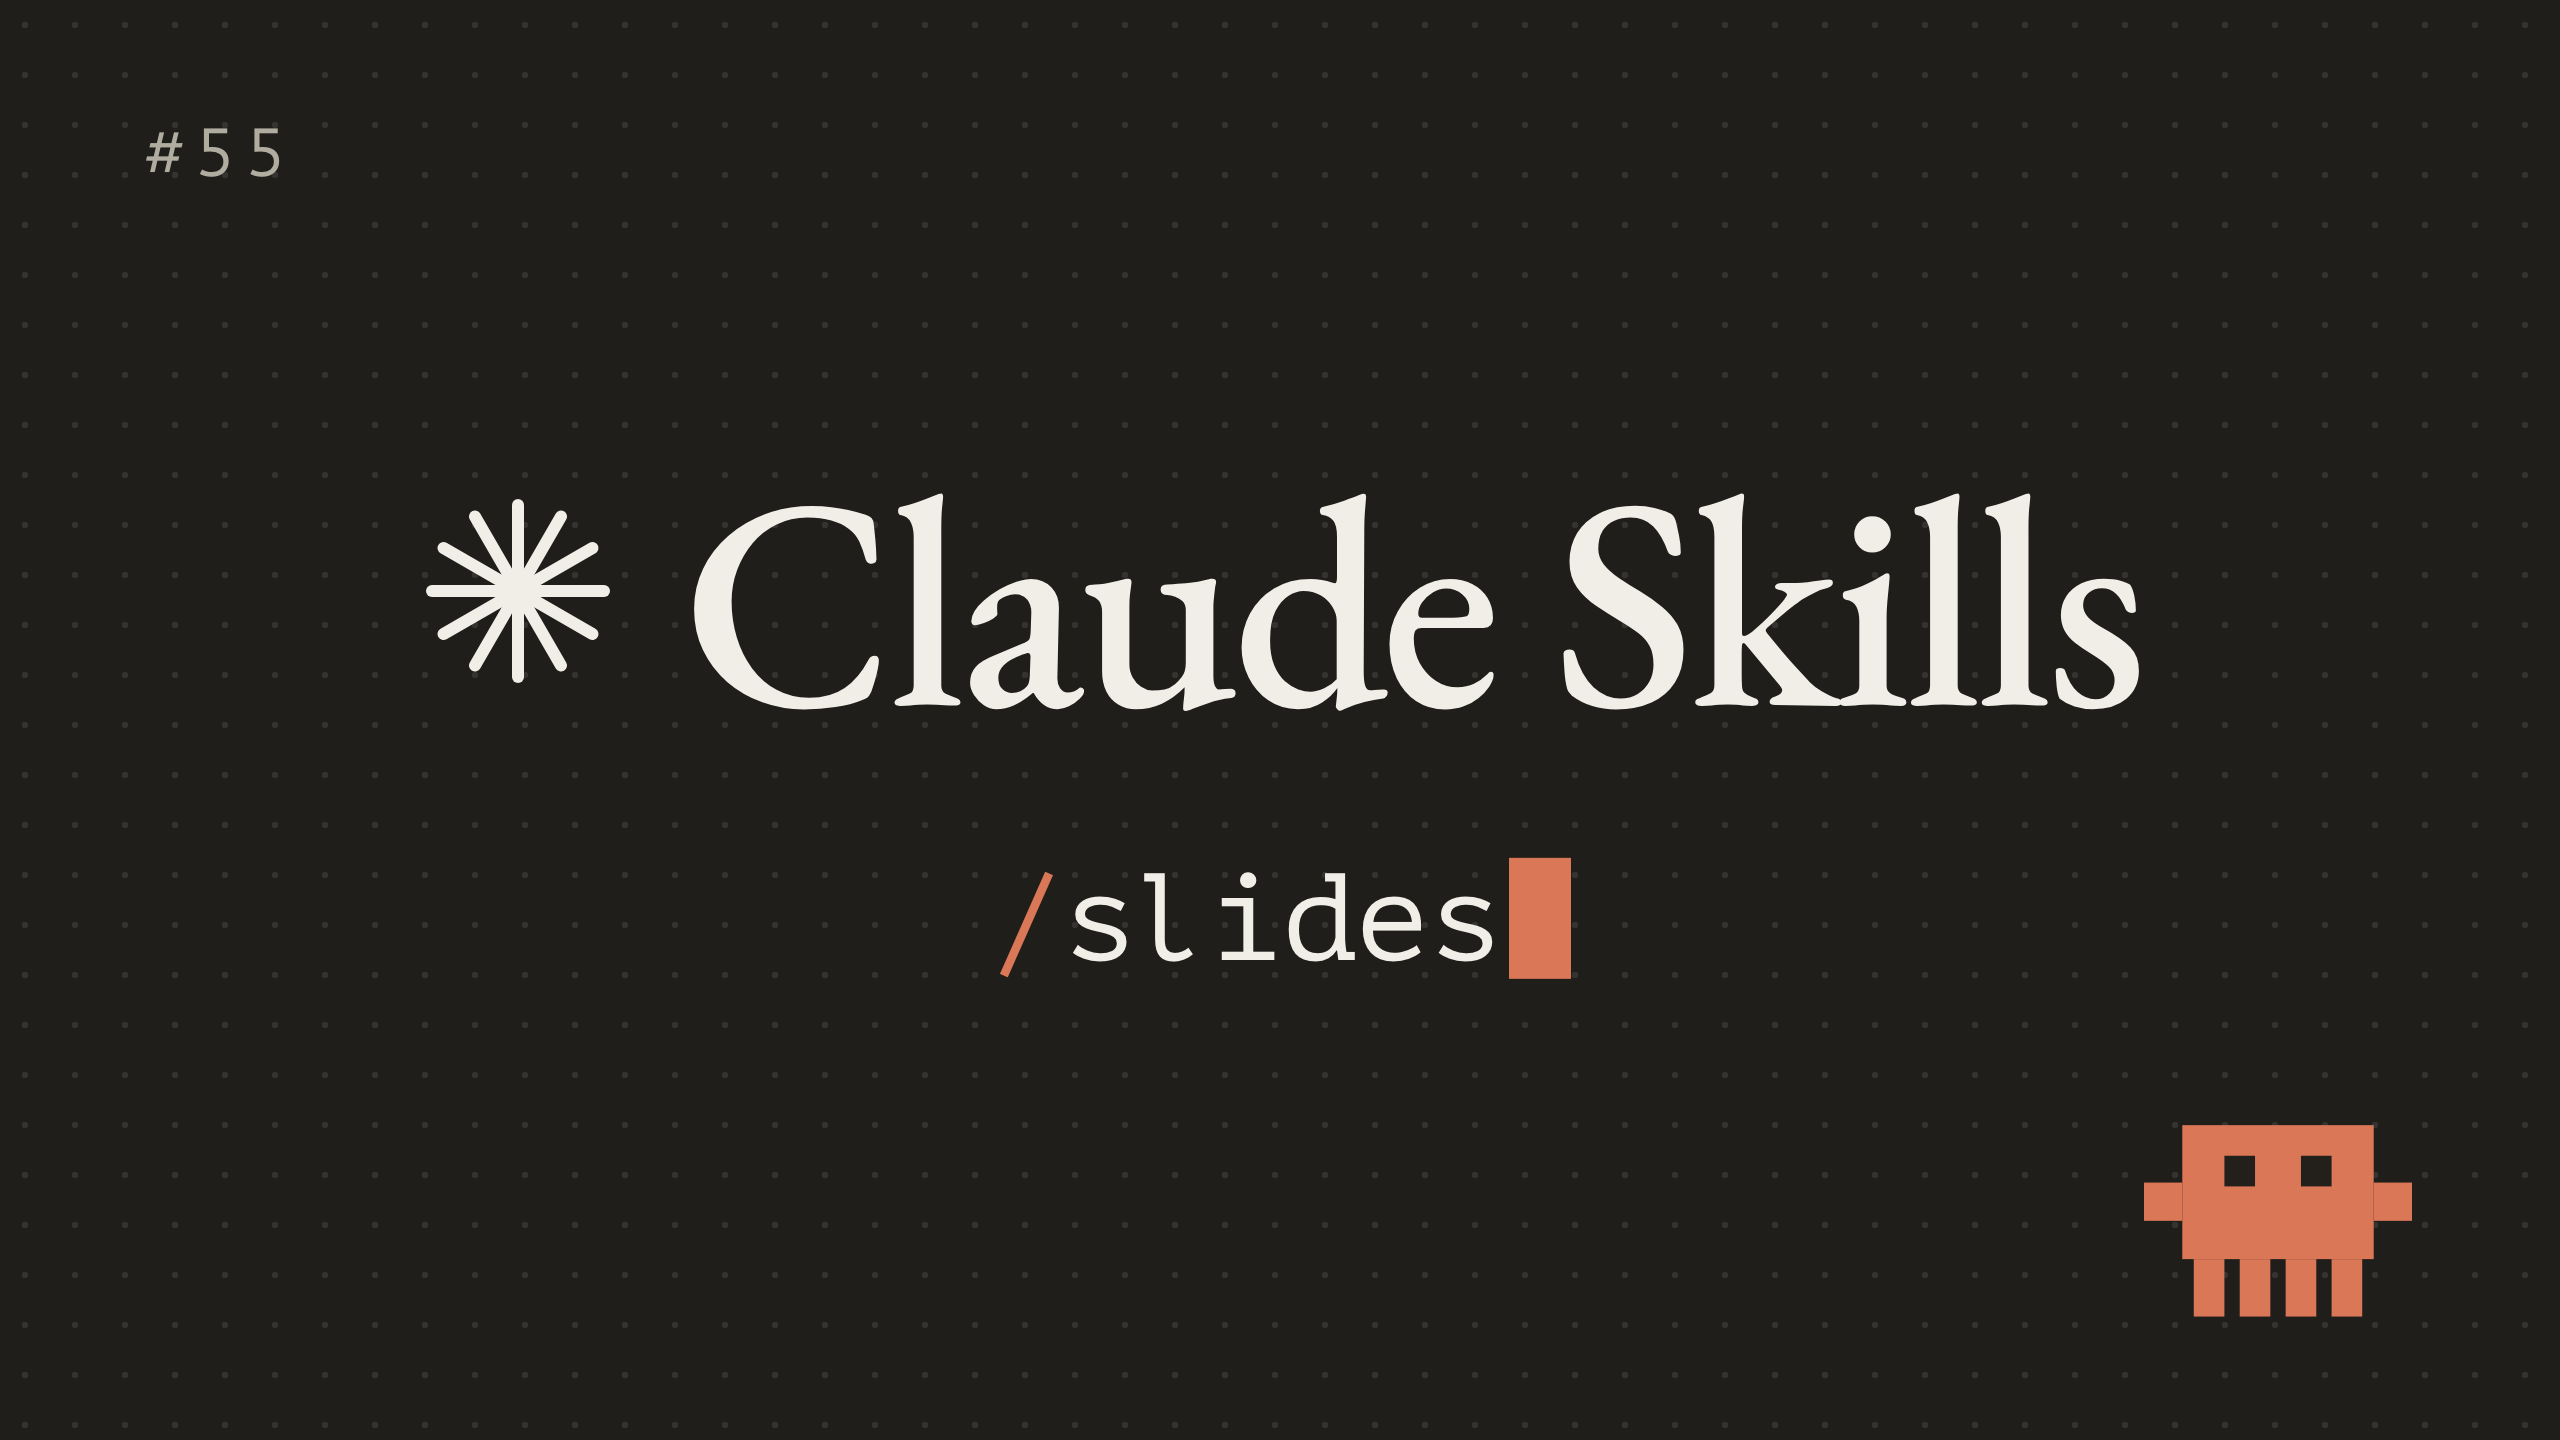
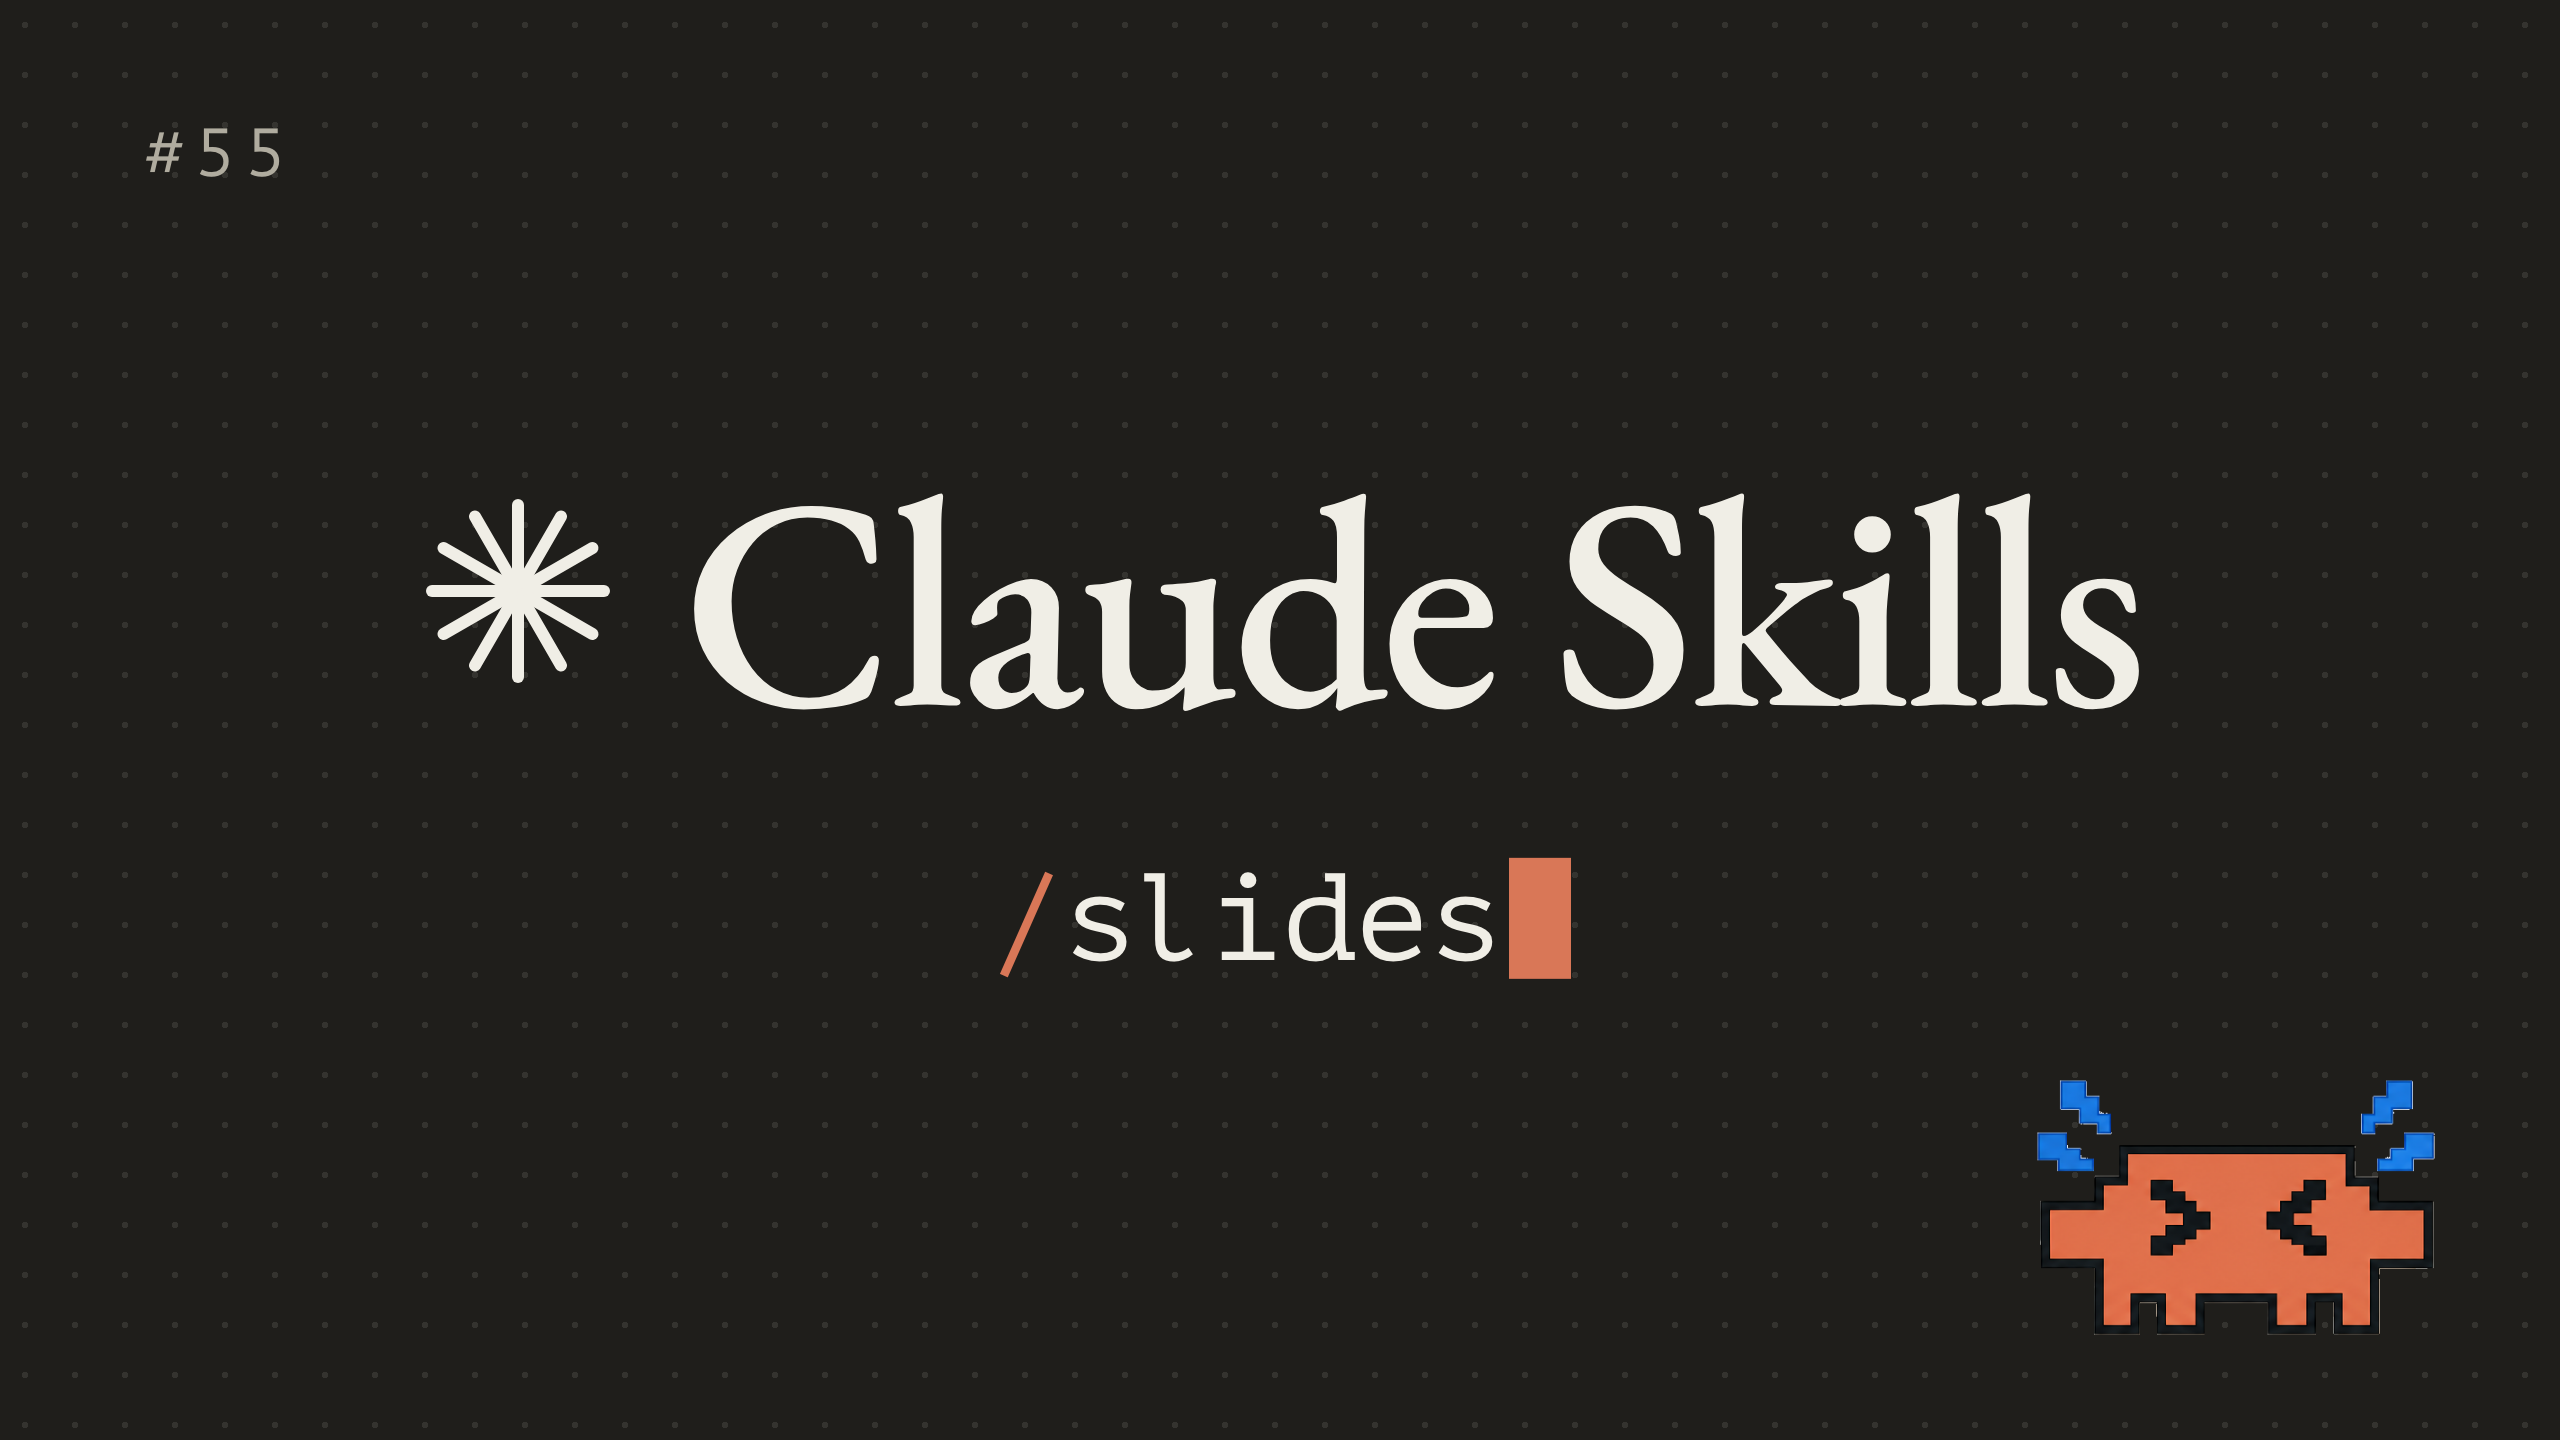
thumbnails: emotion mascots — extract 6 expressions, wire into template
Replace the stylized SVG mascot with the user's pixel Claude mascot in six
expressions, selectable per video.

- tools/extract_mascots.py: crop a 3x2 sprite sheet into tight transparent
  PNGs — border-connected flood fill (scipy) knocks out the cream/shadow
  background while preserving the body, white eyes, and colour accents
  (sparks, sweat, tears, '?', sparkle); each emotion label is cropped off.
- assets/mascots/{shocked,laughing,furious,crying,suspicious,smug}.png
- templates/skill-card.html: bottom-right mascot is now an <img>, chosen via
  ?mascot=<emotion> (empty hides it); works on light and dark grounds.
- render.sh: add --mascot <emotion> (default shocked).
- README.md: document mascots + the extractor.
- out/claude-skills/: refreshed examples (varied emotions) + emotions.png
  showcase + mascots-qc.png (transparent cutouts).

Changed region(s): [[0.7812, 0.75, 0.9688, 0.9375]]

diff --git a/runtime/thumbnails/templates/skill-card.html b/runtime/thumbnails/templates/skill-card.html
@@ -29,7 +29,7 @@
   .cmd .slash{color:var(--spark)}
   .cmd .cur{display:inline-block;width:.5em;height:.98em;background:var(--spark);
     transform:translateY(.16em);margin-left:.06em}
-  .mascot{position:absolute;right:74px;bottom:60px;width:134px;height:auto}
+  .mascot{position:absolute;right:60px;bottom:50px;width:204px;height:auto}
 </style></head>
 <body><div class="frame grid-bg cream" id="frame">
 
@@ -56,21 +56,7 @@
     <div class="cmd"><span class="slash">/</span><span class="cmd-word" id="cmdword">superpowers</span><span class="cur"></span></div>
   </div>
 
-  <svg class="mascot" viewBox="0 0 140 112" role="img" aria-label="Claude mascot">
-    <g fill="#D97757">
-      <rect x="20" y="10" width="100" height="70"/>
-      <rect x="0"  y="40" width="20" height="20"/>
-      <rect x="120" y="40" width="20" height="20"/>
-      <rect x="26" y="80" width="16" height="30"/>
-      <rect x="50" y="80" width="16" height="30"/>
-      <rect x="74" y="80" width="16" height="30"/>
-      <rect x="98" y="80" width="16" height="30"/>
-    </g>
-    <g fill="#23201C">
-      <rect x="42" y="26" width="16" height="16"/>
-      <rect x="82" y="26" width="16" height="16"/>
-    </g>
-  </svg>
+  <img class="mascot" id="mascot" src="../assets/mascots/shocked.png" alt="Claude mascot">
 
 </div>
 <script>
@@ -84,6 +70,9 @@
   var skin = p.get('skin'), f = document.getElementById('frame');
   if (skin === 'dark') f.classList.remove('cream');
   else if (skin === 'light') f.classList.add('cream');
+  var mas = p.get('mascot'), mimg = document.getElementById('mascot');
+  if (mas === '') mimg.style.display = 'none';
+  else if (mas) mimg.src = '../assets/mascots/' + mas + '.png';
 })();
 </script>
 </body></html>

diff --git a/runtime/thumbnails/tools/extract_mascots.py b/runtime/thumbnails/tools/extract_mascots.py
@@ -1,0 +1,77 @@
+#!/usr/bin/env python3
+"""Extract the 6 emotion mascots from a 3x2 sprite sheet into tight transparent PNGs.
+
+Usage: python3 extract_mascots.py <sheet.png> [out_dir]
+
+Knocks out the warm cream/shadow background with a border-connected flood fill
+(scipy label), so it preserves the mascot body, enclosed white eyes, and the
+floating colour accents (sparks, sweat, '?', sparkle) and cool bits (blue tears).
+Each emotion's text label is cropped off first.
+"""
+import sys, os
+import numpy as np
+from PIL import Image
+from scipy import ndimage
+
+NAMES = [["shocked", "laughing", "furious"],
+         ["crying", "suspicious", "smug"]]
+
+def passable_mask(rgb):
+    R, G, B = (rgb[..., i].astype(int) for i in range(3))
+    # warm light = cream / beige shadow / neutral white; NOT cool (blue) or saturated
+    return (R > 140) & (G > 140) & (B > 140) & (R + 8 >= B)
+
+def label_top(cell_passable):
+    """y (within cell) of the top of the bottom-most content band = the text label."""
+    content_rows = (~cell_passable).sum(axis=1)
+    empty = content_rows < 6
+    h = len(empty)
+    y = h - 1
+    while y >= 0 and empty[y]:
+        y -= 1                       # skip bottom margin
+    while y >= 0 and not empty[y]:
+        y -= 1                       # skip the label band
+    top = y + 1
+    return top if top > 220 else int(h * 0.82)   # guard against merged bands
+
+def knockout(region_rgb):
+    """Return RGBA with border-connected warm-light background made transparent."""
+    p = passable_mask(region_rgb)
+    lbl, _ = ndimage.label(p)                    # 4-connectivity
+    border = set(lbl[0, :]) | set(lbl[-1, :]) | set(lbl[:, 0]) | set(lbl[:, -1])
+    border.discard(0)
+    bg = np.isin(lbl, list(border))
+    alpha = np.where(bg, 0, 255).astype(np.uint8)
+    return np.dstack([region_rgb, alpha])
+
+def trim(rgba):
+    ys, xs = np.where(rgba[..., 3] > 0)
+    if len(xs) == 0:
+        return rgba
+    pad = 6
+    y0, y1 = max(ys.min() - pad, 0), min(ys.max() + 1 + pad, rgba.shape[0])
+    x0, x1 = max(xs.min() - pad, 0), min(xs.max() + 1 + pad, rgba.shape[1])
+    return rgba[y0:y1, x0:x1]
+
+def main():
+    sheet = sys.argv[1]
+    out = sys.argv[2] if len(sys.argv) > 2 else "assets/mascots"
+    os.makedirs(out, exist_ok=True)
+    arr = np.asarray(Image.open(sheet).convert("RGB"))
+    H, W = arr.shape[:2]
+    ch, cw = H // 2, W // 3
+    saved = []
+    for r in range(2):
+        for c in range(3):
+            cell = arr[r*ch:(r+1)*ch, c*cw:(c+1)*cw]
+            cut = label_top(passable_mask(cell))         # drop the label text
+            region = cell[:cut]
+            rgba = trim(knockout(region))
+            name = NAMES[r][c]
+            Image.fromarray(rgba, "RGBA").save(os.path.join(out, f"{name}.png"))
+            saved.append((name, rgba.shape[1], rgba.shape[0]))
+            print(f"  {name:11s} {rgba.shape[1]}x{rgba.shape[0]}")
+    return saved
+
+if __name__ == "__main__":
+    main()

diff --git a/runtime/thumbnails/README.md b/runtime/thumbnails/README.md
@@ -37,17 +37,32 @@ bottom-right. Each new video is **one command** — only the number and the
 command word change:
 
 ```bash
-./render.sh claude-skills --cmd /pdf --num 53                 # light (default)
-./render.sh claude-skills --cmd /commit --num 54 --skin dark  # dark ground
-./render.sh claude-skills --cmd /slides --num 55 --out slides # custom filename
+./render.sh claude-skills --cmd /pdf --num 53 --mascot suspicious   # light (default)
+./render.sh claude-skills --cmd /commit --num 54 --skin dark --mascot smug
+./render.sh claude-skills --cmd /slides --num 55 --mascot laughing --out slides
 ```
 
 Flags: `--cmd` slash command (drives the filename too) · `--num` skill index
-(`--num ""` hides it) · `--skin light|dark` · `--title` headline (default
-"Claude Skills") · `--out` output filename. Output → `out/claude-skills/<cmd>.png`
-(+ `@2x/`). Light↔dark auto-adapts (logo, ink, and dot grid flip; the mascot
-stays terracotta). `skills/claude-skills/*.html` holds the earlier exploration
-(a–e) that led here; the template is the source of truth going forward.
+(`--num ""` hides it) · `--skin light|dark` · `--mascot <emotion>` (`--mascot ""`
+hides it) · `--title` headline (default "Claude Skills") · `--out` output
+filename. Output → `out/claude-skills/<cmd>.png` (+ `@2x/`). Light↔dark
+auto-adapts (logo, ink, and dot grid flip; the mascot stays terracotta).
+`skills/claude-skills/*.html` holds the earlier exploration (a–e) that led here;
+the template is the source of truth going forward.
+
+### Emotion mascots (bottom-right)
+
+The pixel Claude mascot in the bottom-right sets the emotional tone (a proven
+CTR lever). Six expressions live in `assets/mascots/`: **shocked, laughing,
+furious, crying, suspicious, smug** — pick one per video with `--mascot`.
+
+They're extracted from a sprite sheet by `tools/extract_mascots.py` (crops the
+6 cells, knocks out the cream/shadow background to transparent, keeps sparks /
+tears / eyes), so they sit cleanly on both light and dark grounds:
+
+```bash
+python3 tools/extract_mascots.py <sheet-3x2.png> assets/mascots
+```
 
 To retheme for a different series, copy `templates/skill-card.html` and edit it.
 
